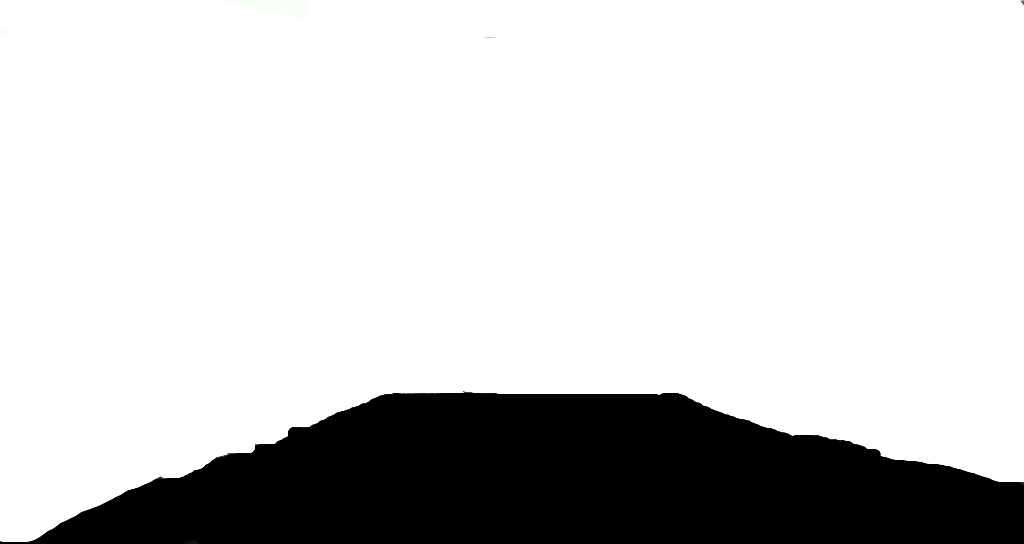
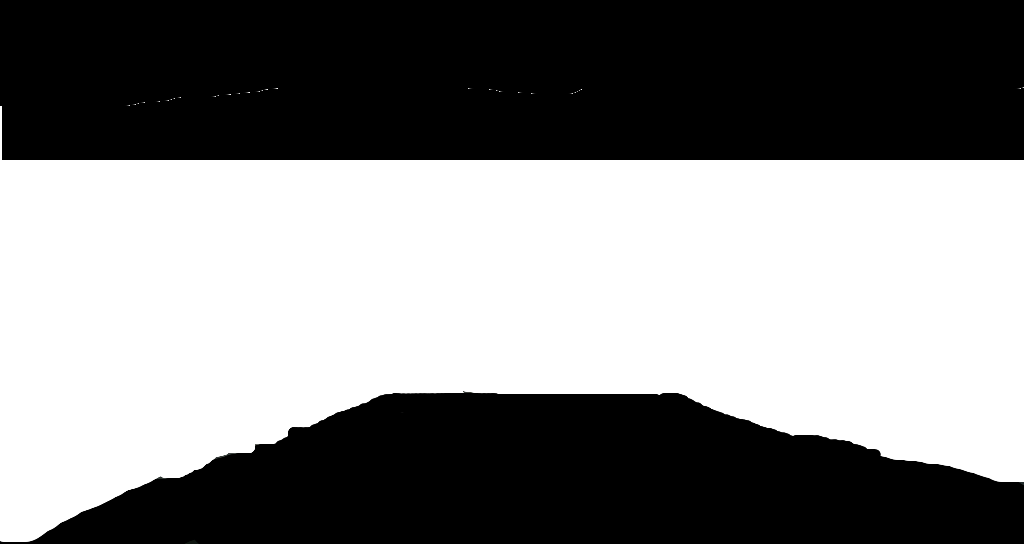
Added sky to cropped image and drew box and class name for no distance cases

Changed region(s): [[0.0, 0.0, 1.0, 0.3125]]

diff --git a/stereo_vision_for_object_ranging.py b/stereo_vision_for_object_ranging.py
@@ -58,23 +58,27 @@ def on_trackbar(val):
 
 def drawPred(image, class_name, confidence, left, top, right, bottom, colour, disparity):
 
-    # get centre coordinates of box
+    # Draw a bounding box and find its centre
+    cv2.rectangle(image, (left, top), (right, bottom), colour, 3)
     centre_x = math.floor((left + right)/2)
     centre_y = math.floor((top + bottom)/2)
 
     # calculate the distance according to the stereo depth formula
     disparity_value = disparity_scaled[centre_y][centre_x]
     if disparity_value == 0:
+        label = '%s' % (class_name)
+        labelSize, line = cv2.getTextSize(label, cv2.FONT_HERSHEY_SIMPLEX, 0.5, 1)
+        top = max(top, labelSize[1])
+        cv2.rectangle(image, (left, top - round(1.5*labelSize[1])),
+            (left + round(1.5*labelSize[0]), top + line), (255, 255, 255), cv2.FILLED)
+        cv2.putText(image, label, (left, top), cv2.FONT_HERSHEY_SIMPLEX, 0.75, (0,0,0), 1)
         return -1
     distance = round(((focal_length * baseline)/disparity_value), 2)
-
-    # Draw a bounding box and find its centre to measure distance from it
-    cv2.rectangle(image, (left, top), (right, bottom), colour, 3)
 
     # construct label
     label = '%s: %.2f%s' % (class_name, distance, "m")
 
-    #Display the label at the top of the bounding box
+    # Display the label at the top of the bounding box
     labelSize, line = cv2.getTextSize(label, cv2.FONT_HERSHEY_SIMPLEX, 0.5, 1)
     top = max(top, labelSize[1])
     cv2.rectangle(image, (left, top - round(1.5*labelSize[1])),
